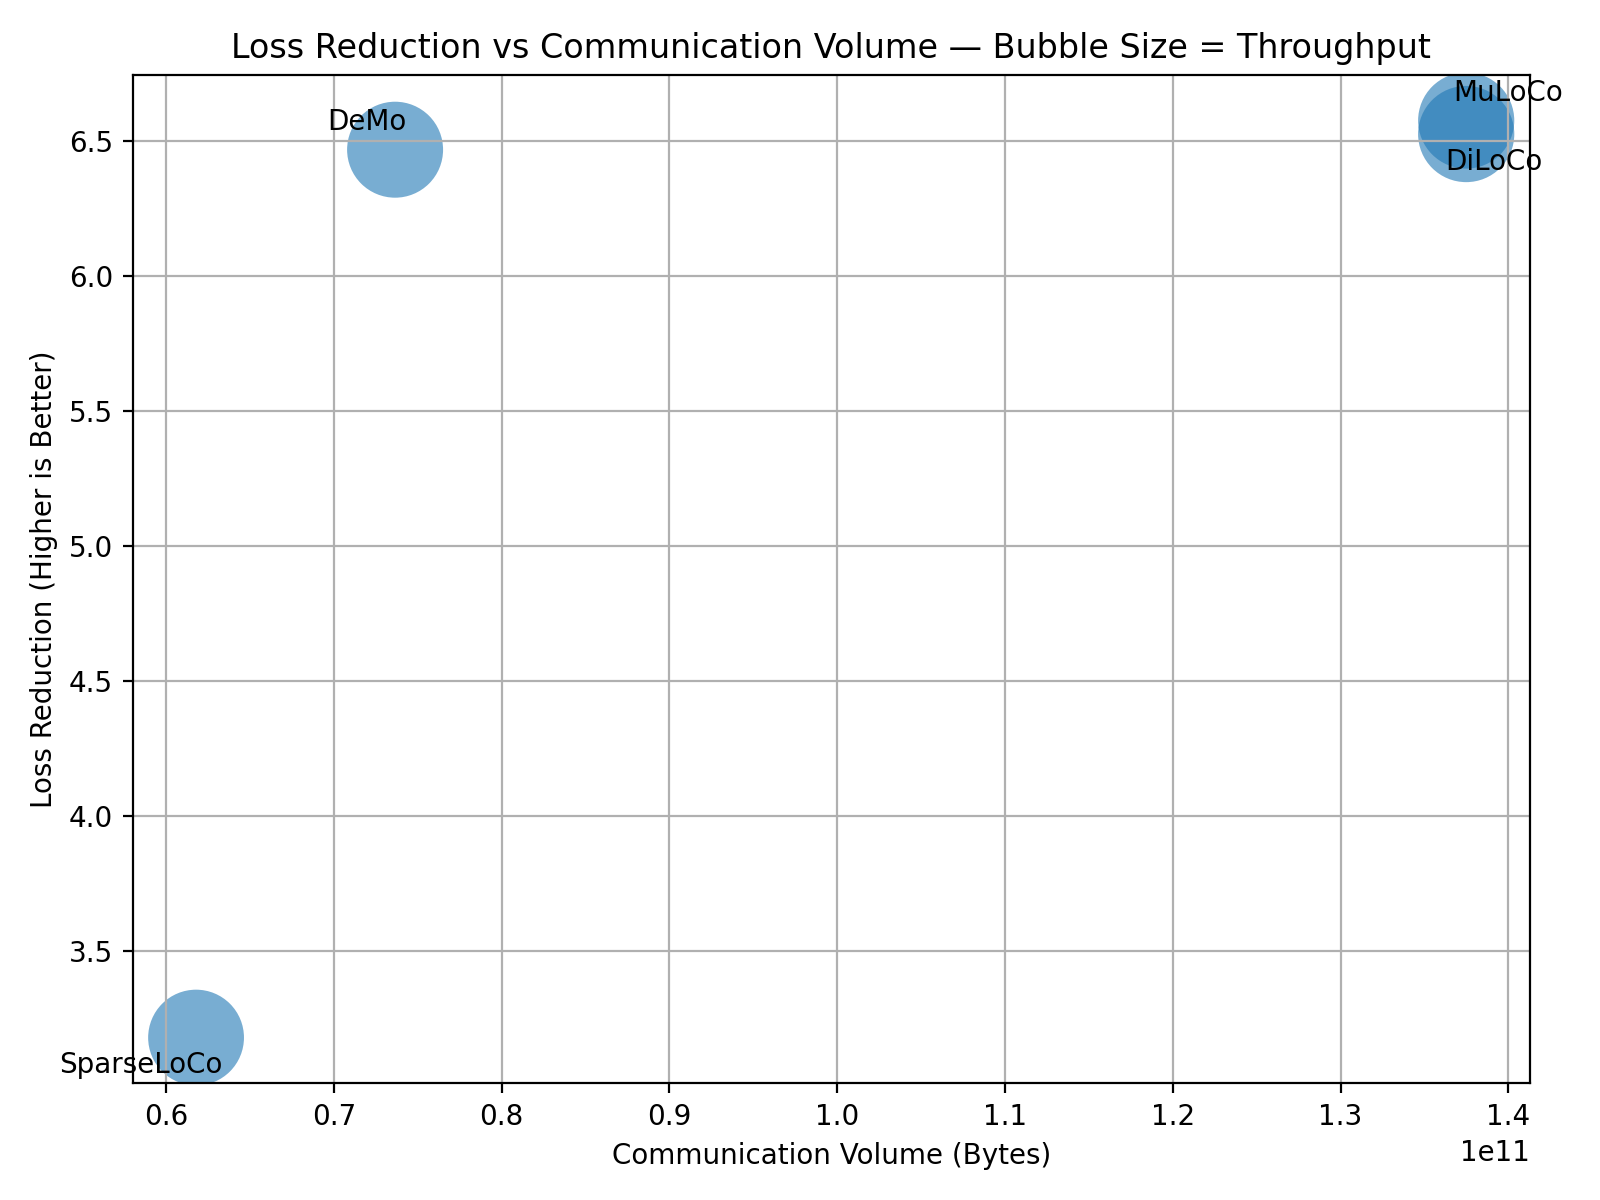
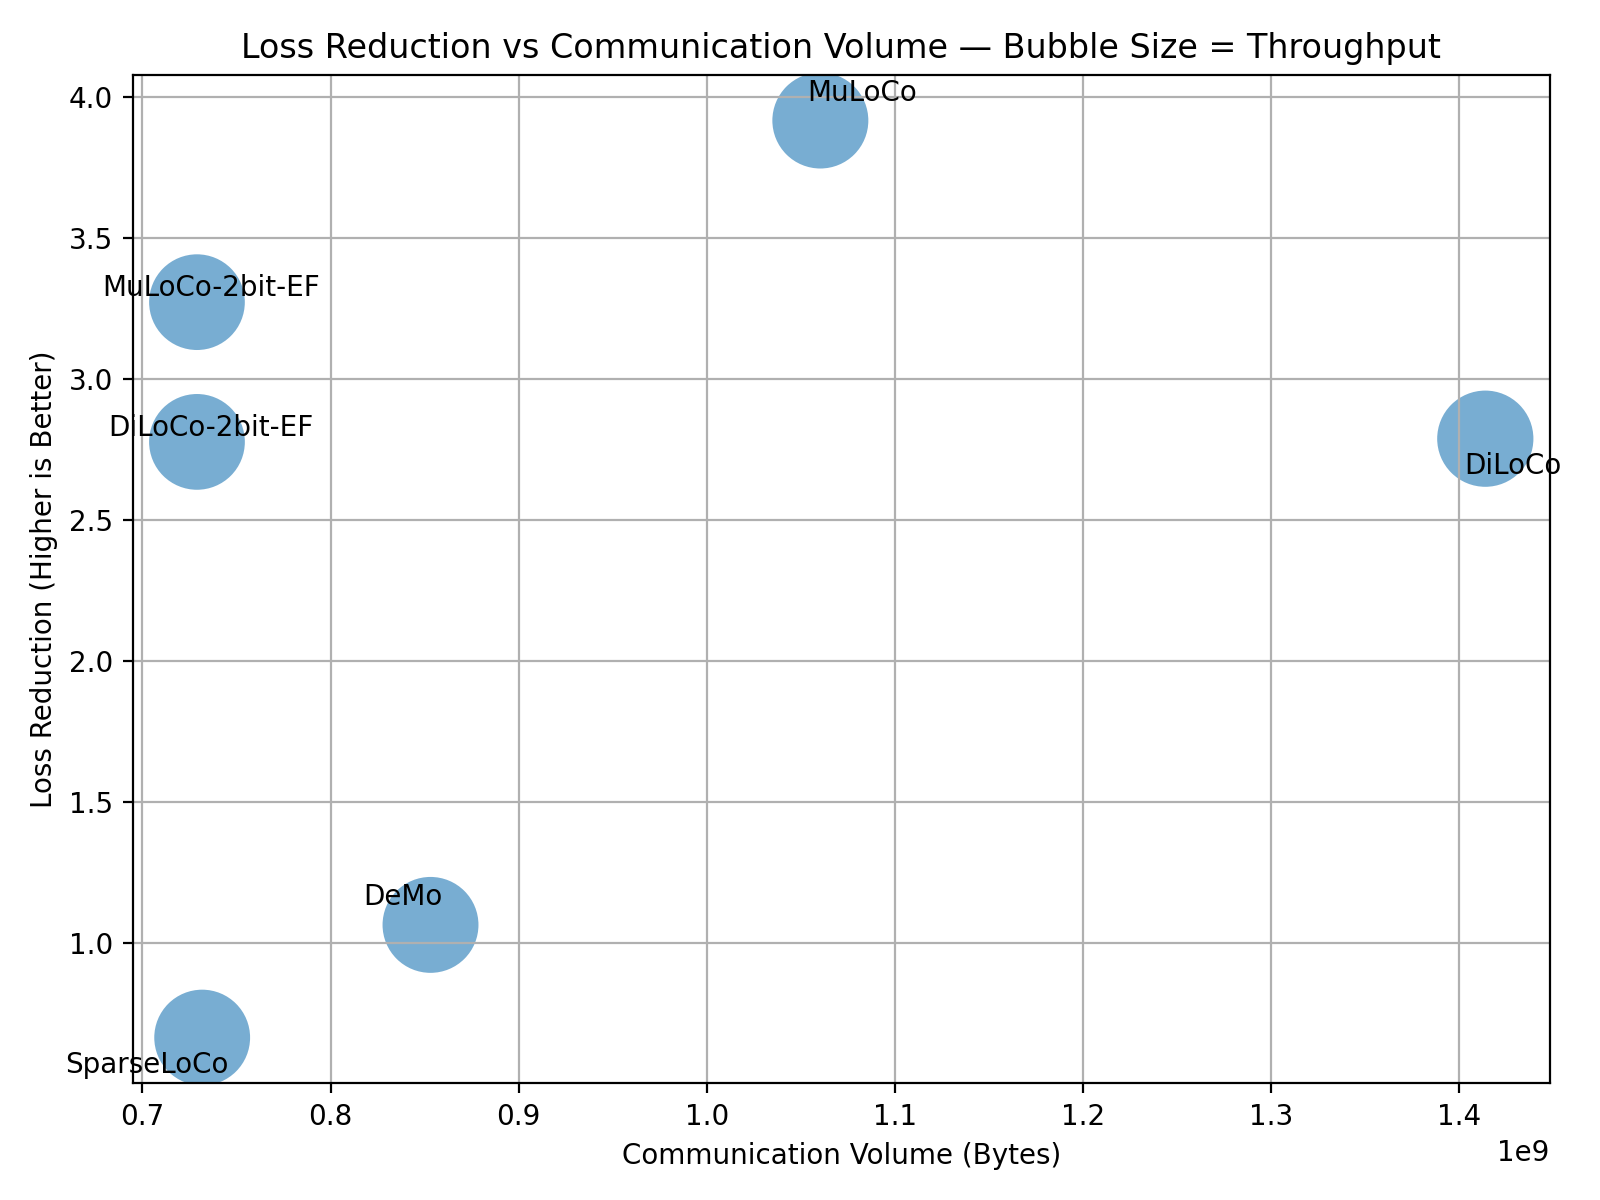
Add 2-bit quant compression with error feedback

diff --git a/evaluator/evaluator.py b/evaluator/evaluator.py
@@ -5,12 +5,21 @@ import pandas as pd
 import requests
 import datetime
 import re
+import shutil
 
 # --- Config ---
 SANDBOX_IMAGE = "distropz_sandbox"
 INFLUXDB_MEASUREMENT = "mechanism1_metrics"
 MAX_RUNTIME = 900  # seconds
 
+WHITELISTED_HOTKEYS = [
+    "5ECDEtiHDP7tXeG3L7PViHsjSUPCsijKEokrFWhdXuATDjH1",
+    "5EvvqR8EJhQYVyk6avp2dpkLymR95StUqPoRSSN7sD9FUSWj",
+    "5HCDdzGFn2FN5bTJCGrXREWQFMCspDYcT9QeETrzkwvkDzMT",
+    "5EEqeZe2KmWTHKRr48xZNgfDXZCJScfTMvt2daoMxKz1Zifw",
+    "5HW6iTCNfk9xRmNbFv7PKGpJL99JU2wzco4ABJxywKZGgjJA",
+    "5EvFbREcHj3gC9tRCbQ5E4CF25UCAVsJj4pFyzFqHrbgn9Rg",
+]
 
 # ------------------------------------------------------
 # 1. Validate the metrics schema and sanity bounds
@@ -142,6 +151,8 @@ def validate_miner(
 
     # --- fetch gist ---
     match = re.search(r"([0-9a-fA-F]{8,})$", gist_url)
+    if hotkey not in WHITELISTED_HOTKEYS:
+        raise ValueError(f"Hotkey {hotkey} not in whitelist")
     if not match:
         raise ValueError(f"Could not parse gist ID from URL: {gist_url}")
     gist_id = match.group(1)
@@ -149,54 +160,60 @@ def validate_miner(
     api_url = f"https://api.github.com/gists/{gist_id}"
     resp = requests.get(api_url)
     last_updated_at = resp.json().get("updated_at")
+
     # last_updated_at = datetime.datetime.fromisoformat(last_updated_at.replace("Z", "+00:00"))
     if False:
-        if hotkey == "5EvvqR8EJhQYVyk6avp2dpkLymR95StUqPoRSSN7sD9FUSWj":
-            path = "/root/DisTrOpZ/miner/miner_diloco.py"
-        elif hotkey == "5EEqeZe2KmWTHKRr48xZNgfDXZCJScfTMvt2daoMxKz1Zifw":
+        # path = "/root/DisTrOpZ/miner/miner_sparseloco.py"
+        if hotkey == "5ECDEtiHDP7tXeG3L7PViHsjSUPCsijKEokrFWhdXuATDjH1":
+            path = "/root/DisTrOpZ/miner/miner_muloco_2bit_ef.py"
+        elif hotkey == "5EvvqR8EJhQYVyk6avp2dpkLymR95StUqPoRSSN7sD9FUSWj":
             path = "/root/DisTrOpZ/miner/miner_sparseloco.py"
+        elif hotkey == "5HCDdzGFn2FN5bTJCGrXREWQFMCspDYcT9QeETrzkwvkDzMT":
+            path = "/root/DisTrOpZ/miner/miner_diloco_2bit_ef.py"
+        elif hotkey == "5EEqeZe2KmWTHKRr48xZNgfDXZCJScfTMvt2daoMxKz1Zifw":
+            path = "/root/DisTrOpZ/miner/miner_diloco.py"
         elif hotkey == "5HW6iTCNfk9xRmNbFv7PKGpJL99JU2wzco4ABJxywKZGgjJA":
             path = "/root/DisTrOpZ/miner/miner_demo.py"
         elif hotkey == "5EvFbREcHj3gC9tRCbQ5E4CF25UCAVsJj4pFyzFqHrbgn9Rg":
+            path = "/root/DisTrOpZ/miner/miner_muloco.py"
+        else:
             path = "/root/DisTrOpZ/miner/miner_federated_averaging.py"
-
-        # Copy the file
-        import shutil
+        print("PATH", path, hotkey)
 
         shutil.copy(path, "/root/DisTrOpZ/evaluator/sandbox/strategy.py")
         tmp_path = path
-    else:
-        if resp.status_code == 404:
-            raise ValueError(f"Gist not found or not public: {gist_url}")
-        resp.raise_for_status()
 
-        files = resp.json().get("files", {})
-        if not files:
-            raise ValueError("Gist has no files.")
+    if resp.status_code == 404:
+        raise ValueError(f"Gist not found or not public: {gist_url}")
+    resp.raise_for_status()
 
-        filename, fileinfo = next(iter(files.items()))
-        code = fileinfo["content"]
+    files = resp.json().get("files", {})
+    if not files:
+        raise ValueError("Gist has no files.")
 
-        # Verify hash
-        actual_hash = hashlib.sha256(code.encode("utf-8")).hexdigest()
-        if actual_hash != expected_hash:
-            raise ValueError(
-                f"Hash mismatch! expected {expected_hash[:8]}, got {actual_hash[:8]}"
-            )
+    filename, fileinfo = next(iter(files.items()))
+    code = fileinfo["content"]
 
-        # --- write to temp file ---
-        with tempfile.NamedTemporaryFile("w", suffix=".py", delete=False) as tmp:
-            tmp.write(code)
-            tmp_path = tmp.name
-    # Copy the file
-    import shutil
+    # Verify hash
+    actual_hash = hashlib.sha256(code.encode("utf-8")).hexdigest()
+    if actual_hash != expected_hash:
+        raise ValueError(
+            f"Hash mismatch! expected {expected_hash[:8]}, got {actual_hash[:8]}"
+        )
+
+    # --- write to temp file ---
+    with tempfile.NamedTemporaryFile("w", suffix=".py", delete=False) as tmp:
+        tmp.write(code)
+        tmp_path = tmp.name
 
     shutil.copy(tmp_path, "/root/DisTrOpZ/evaluator/sandbox/strategy.py")
     tmp_path = "/root/DisTrOpZ/evaluator/sandbox/strategy.py"
+
     try:
         bt.logging.success(f"✅ Run {tmp_path} in sandbox")
         metrics = run_in_sandbox(tmp_path, config)
         metrics["last_update"] = last_updated_at
+        # metrics = {}
         # breakpoint()
         bt.logging.success(f"✅ Miner {hotkey}: {metrics}")
         return metrics

diff --git a/results/print_graphs.py b/results/print_graphs.py
@@ -2,24 +2,30 @@ import os
 import json
 import numpy as np
 import matplotlib.pyplot as plt
-from adjustText import adjust_text
+# from adjustText import adjust_text
 
 STARTING_LOSS = 10.80
 
 # -------- Load JSON --------
 # Save your data as, e.g., results.json
-with open(
-    "/root/DisTrOpZ/results/metrics-gpt-small-owt-2-10000-2025-12-06.json", "r"
-) as f:
-    # with open("/root/DisTrOpZ/results/metrics-gpt-base-owt-2-1000-2025-12-09.json", "r") as f:
+with open("/root/DisTrOpZ/results/metrics-gpt-small-owt-2-100-2025-12-18.json", "r") as f:
+# with open(
+#     "/root/DisTrOpZ/results/metrics-gpt-small-owt-2-10000-2025-12-06.json", "r"
+# ) as f:
+# with open("/root/DisTrOpZ/results/metrics-gpt-base-owt-2-1000-2025-12-09.json", "r") as f:
     data = json.load(f)
 
 new_data = {}
 
 for key in data.keys():
     data[key]["loss"] = STARTING_LOSS - data[key]["loss"]
-    if key == "5EvvqR8EJhQYVyk6avp2dpkLymR95StUqPoRSSN7sD9FUSWj":
+    # data[key]["loss"] = data[key]["loss"]
+    if key == "5ECDEtiHDP7tXeG3L7PViHsjSUPCsijKEokrFWhdXuATDjH1":
+        new_data["MuLoCo-2bit-EF"] = data[key]
+    elif key == "5EvvqR8EJhQYVyk6avp2dpkLymR95StUqPoRSSN7sD9FUSWj":
         new_data["SparseLoCo"] = data[key]
+    elif key == "5HCDdzGFn2FN5bTJCGrXREWQFMCspDYcT9QeETrzkwvkDzMT":
+        new_data["DiLoCo-2bit-EF"] = data[key]
     elif key == "5EEqeZe2KmWTHKRr48xZNgfDXZCJScfTMvt2daoMxKz1Zifw":
         new_data["DiLoCo"] = data[key]
     elif key == "5HW6iTCNfk9xRmNbFv7PKGpJL99JU2wzco4ABJxywKZGgjJA":

diff --git a/miner/miner_diloco_2bit_ef.py b/miner/miner_diloco_2bit_ef.py
@@ -1043,8 +1043,11 @@ class SingleDeviceMuonWithAuxAdam(torch.optim.Optimizer):
 
 
 STRATEGY = DiLoCoStrategy(
-    optim_spec=OptimSpec(SingleDeviceMuonWithAuxAdam),
-    compression=None,
+    optim_spec=OptimSpec(torch.optim.AdamW, lr=0.001),
+    compression = Compression(
+        sparsifier=None,
+        quantizer=UniformKBitQuantizer(n_bins=4, range_in_sigmas=6),
+    ),
     lr_scheduler="lambda_cosine",
     lr_scheduler_kwargs={
         "warmup_steps": 500,

diff --git a/miner/miner_muloco_2bit_ef.py b/miner/miner_muloco_2bit_ef.py
@@ -1044,7 +1044,10 @@ class SingleDeviceMuonWithAuxAdam(torch.optim.Optimizer):
 
 STRATEGY = DiLoCoStrategy(
     optim_spec=OptimSpec(SingleDeviceMuonWithAuxAdam),
-    compression=None,
+    compression = Compression(
+        sparsifier=None,
+        quantizer=UniformKBitQuantizer(n_bins=4, range_in_sigmas=6),
+    ),
     lr_scheduler="lambda_cosine",
     lr_scheduler_kwargs={
         "warmup_steps": 500,

diff --git a/evaluator/evaluation_sandbox.py b/evaluator/evaluation_sandbox.py
@@ -39,7 +39,6 @@ def load_strategy(path):
 
 def main():
     # Miner script is mounted at /sandbox/strategy.py
-    # script_path = "sandbox/strategy.py"
     script_path = "/root/DisTrOpZ/evaluator/sandbox/strategy.py"
     try:
         strategy = script_path
